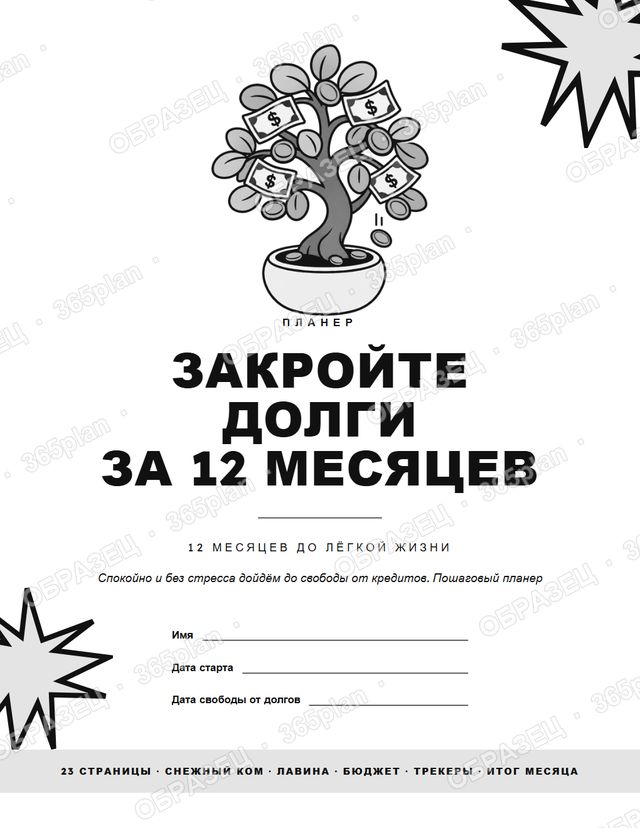
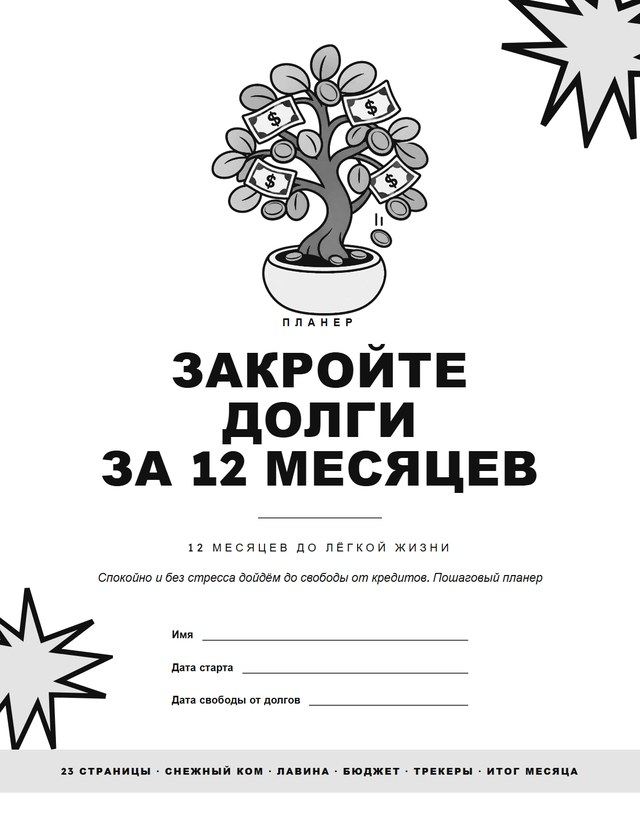
Clean cover previews (no watermark); inner pages keep half-page stub

diff --git a/planners.html b/planners.html
@@ -427,7 +427,7 @@ footer .ft{padding-bottom:56px}
 const BUY_URL = "";
 const PINTEREST_URL = "";
 document.querySelectorAll("[data-buy]").forEach(function (a) {
-  if (BUY_URL) { a.href = BUY_URL; } else { a.addEventListener("click", function (e) { e.preventDefault(); alert("Оплата скоро заработает."); }); }
+  if (BUY_URL) { a.href = BUY_URL; a.target = "_blank"; a.rel = "noopener"; } else { a.addEventListener("click", function (e) { e.preventDefault(); alert("Оплата скоро заработает."); }); }
 });
 
 var dlg = document.getElementById("look");
